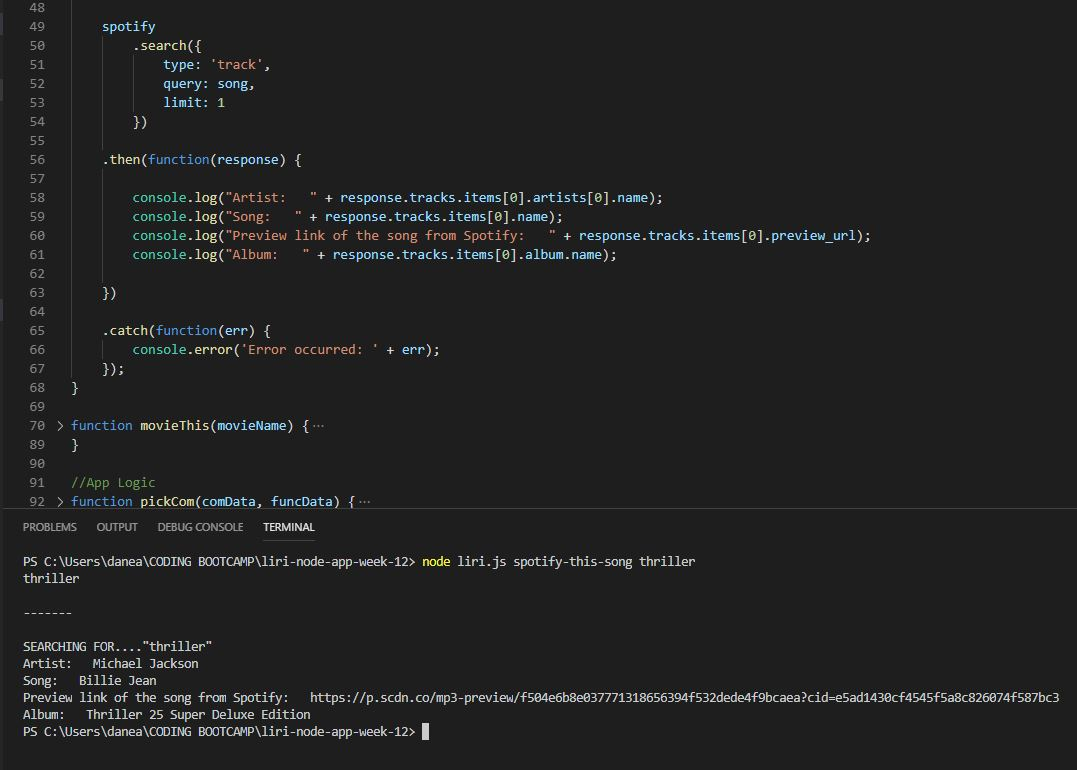
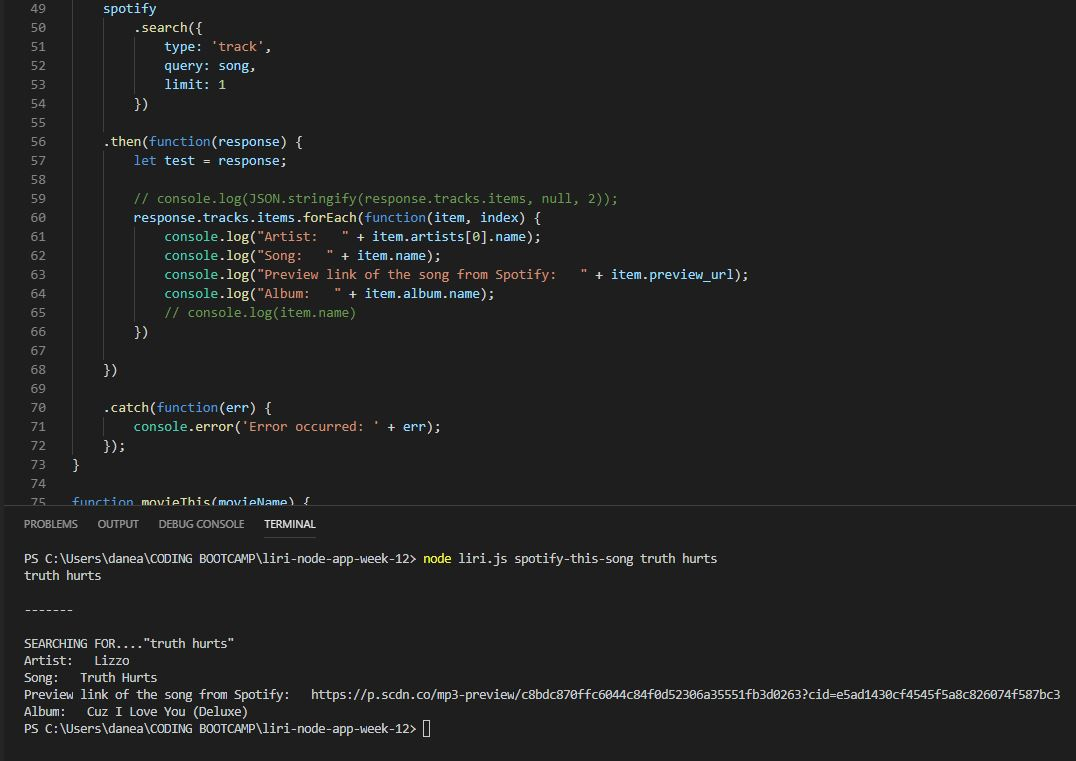
update

diff --git a/liri.js b/liri.js
@@ -56,13 +56,13 @@ function spotifyThisSong(song) {
     .then(function(response) {
         let test = response;
 
-        console.log(JSON.stringify(response.tracks.items, null, 2));
+        // console.log(JSON.stringify(response.tracks.items, null, 2));
         response.tracks.items.forEach(function(item, index) {
             console.log("Artist:   " + item.artists[0].name);
             console.log("Song:   " + item.name);
             console.log("Preview link of the song from Spotify:   " + item.preview_url);
             console.log("Album:   " + item.album.name);
-            console.log(item.name)
+            // console.log(item.name)
         })
 
     })
